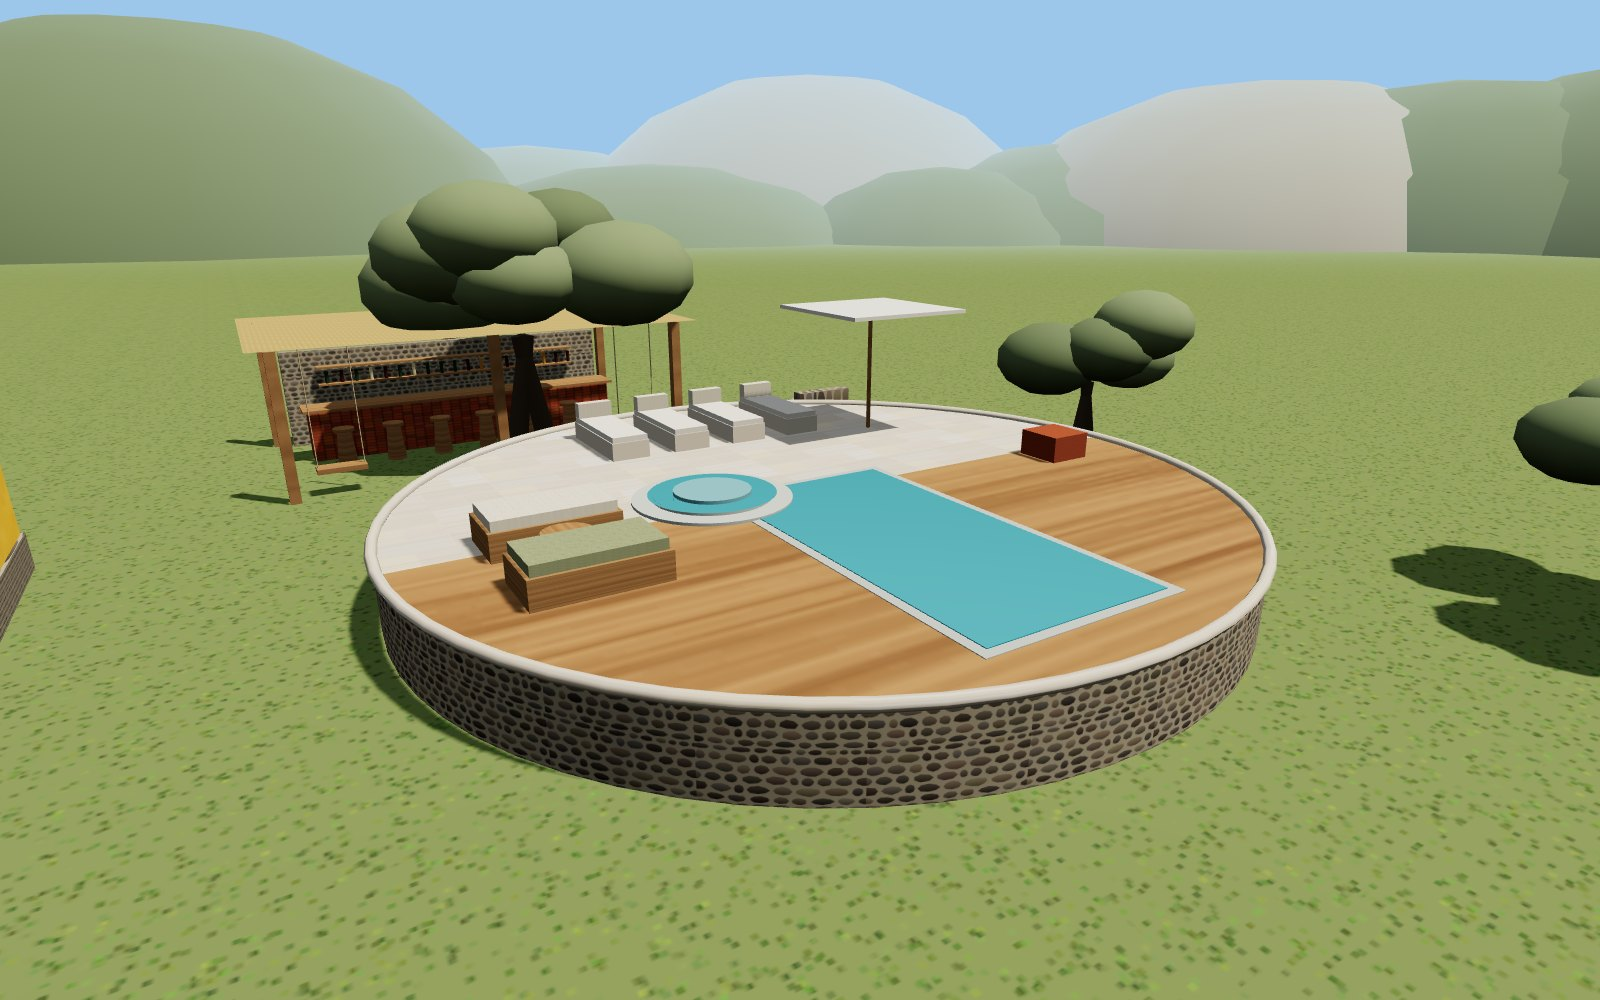
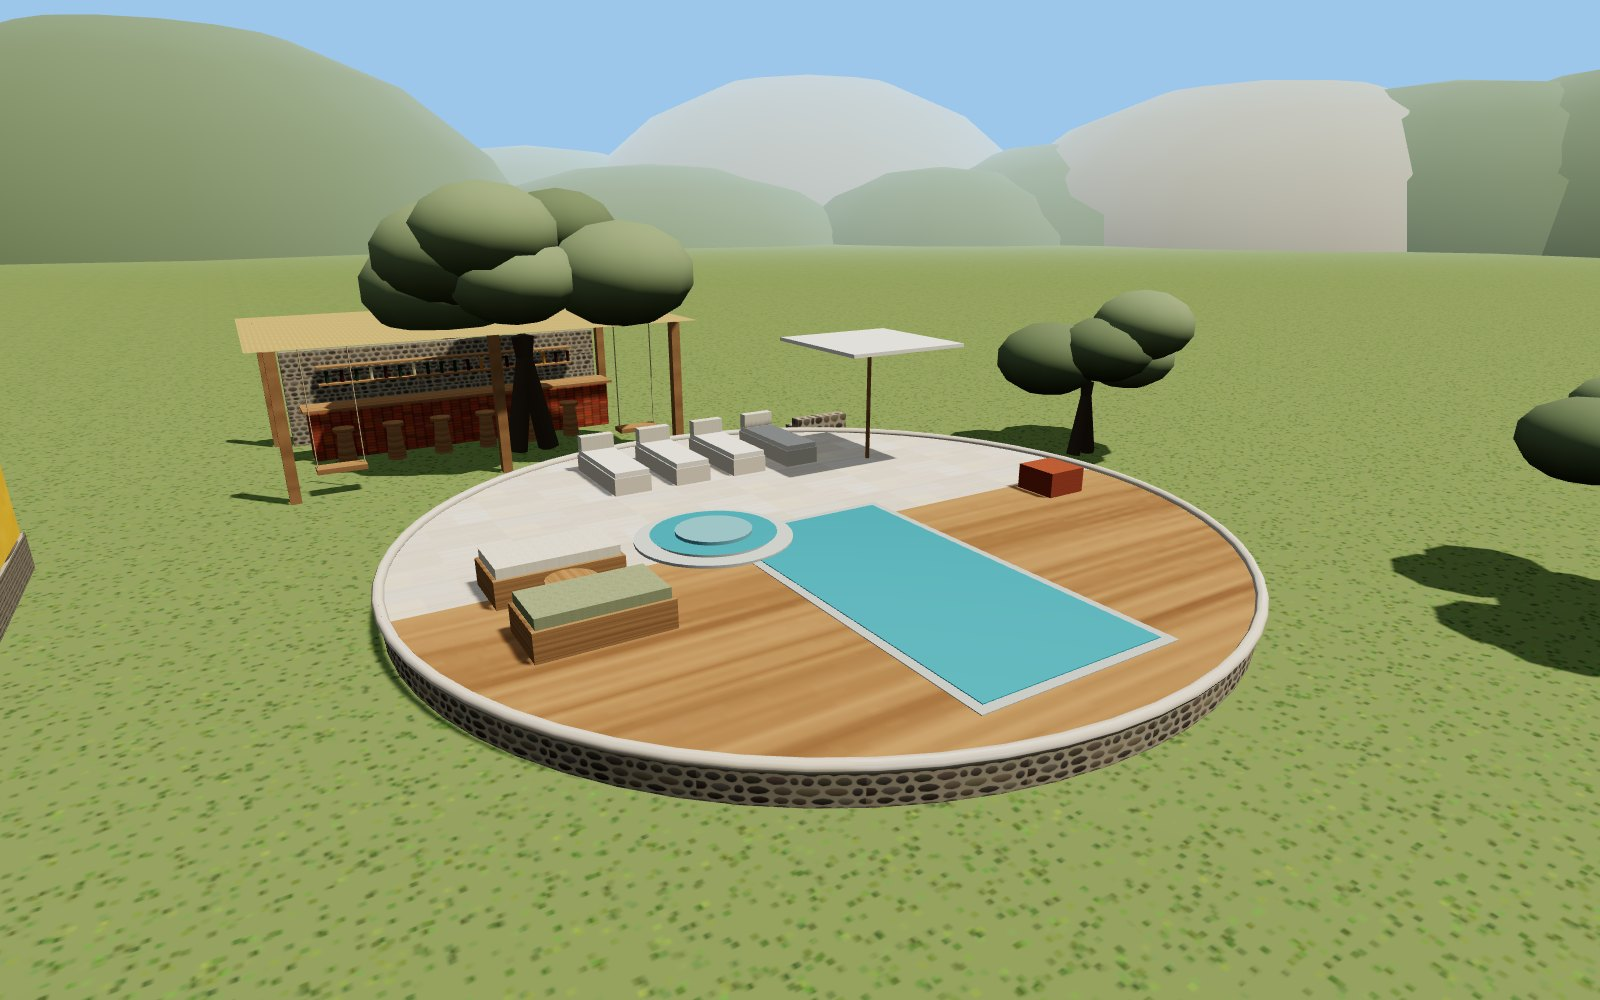
Piscina tonda più bassa (45 cm fuori terra) + foto originale Damonte pag. 4
Claude-Session: https://claude.ai/code/session_01QZXxqty357DcebAAL5Vpaf

Changed region(s): [[0.2188, 0.279, 0.8125, 0.775]]

diff --git a/render-3d/modifiche-damonte-e-nostra/sorgente/esterno-dm4.js b/render-3d/modifiche-damonte-e-nostra/sorgente/esterno-dm4.js
@@ -440,7 +440,7 @@ for (const [x, z] of [[-18, 42], [-4, 50], [15, 50], [30, 45], [42, 40], [6, 38]
 
 // ROUND POOL like Damonte p.4: a raised circle (above ground, clad in stone), timber deck, rectangular basin towards the view
 // with a small round plunge pool and steps at its corner, pale stone half-moon, loungers in a row, square umbrella, lounge corner, big olive
-function roundPool(cx, cz, y0, dir) { const R = 6.5, H = 1.1, top = y0 + H;
+function roundPool(cx, cz, y0, dir) { const R = 6.5, H = 0.45, top = y0 + H;
   const wall = new THREE.Mesh(new THREE.CylinderGeometry(R, R, H, 64, 1, true), stoneW(40, H)); wall.position.set(cx, y0 + H / 2, cz); wall.castShadow = true; scene.add(wall);
   const deck = new THREE.Mesh(new THREE.CircleGeometry(R, 64, dir > 0 ? Math.PI : 0, Math.PI), oakM); deck.rotation.x = -Math.PI / 2; deck.position.set(cx, top, cz); deck.receiveShadow = true; scene.add(deck);
   const half = new THREE.Mesh(new THREE.CircleGeometry(R, 64, dir > 0 ? 0 : Math.PI, Math.PI), travM); half.rotation.x = -Math.PI / 2; half.position.set(cx, top, cz); half.receiveShadow = true; scene.add(half);
@@ -458,7 +458,7 @@ function roundPool(cx, cz, y0, dir) { const R = 6.5, H = 1.1, top = y0 + H;
   cyl(cx - 4.3, cz + dir * 0.8, 0.35, top, top + 0.4, oakM, 20);
   box(cx + 4.4, cx + 5.2, top, top + 0.45, cz + dir * 0.5 - 0.4, cz + dir * 0.5 + 0.4, rustM);
   for (let i = 0; i < 6; i++) { const s = cyl(cx + dir * 0 + (i - 2.5) * 2.0 * 0, cz, 0.0, 0, 0, oakM); s.visible = false; }
-  const steps = (sx) => { for (let i = 0; i < 5; i++) box(sx - 0.7, sx + 0.7, y0, y0 + (i + 1) * 0.22, cz - dir * (R + 1.4 - i * 0.3) - 0.15, cz - dir * (R + 1.4 - i * 0.3) + 0.15, stoneW(1.4, 0.22)); }; steps(cx + 4.5);
+  const steps = (sx) => { for (let i = 0; i < 2; i++) box(sx - 0.7, sx + 0.7, y0, y0 + (i + 1) * 0.22, cz - dir * (R + 0.6 - i * 0.3) - 0.15, cz - dir * (R + 0.6 - i * 0.3) + 0.15, stoneW(1.4, 0.22)); }; steps(cx + 4.5);
   olive(cx - 2, y0, cz - dir * (R + 2.5), 1.9); }
 roundPool(29.5, 6.0, 0, 1);
 // ---- POOL BAR: timber pergola with reed roof, terracotta-tile bar, carved wooden stools, swing seats (p.10-11)

diff --git a/render-3d/modifiche-damonte-e-nostra/sorgente/esterno5.js b/render-3d/modifiche-damonte-e-nostra/sorgente/esterno5.js
@@ -397,7 +397,7 @@ function bellTent(x, y, z, r = 2.6) { box(x - r - 0.6, x + r + 0.6, y, y + 0.35,
 
 // ROUND POOL like Damonte p.4: a raised circle (above ground, clad in stone), timber deck, rectangular basin towards the view
 // with a small round plunge pool and steps at its corner, pale stone half-moon, loungers in a row, square umbrella, lounge corner, big olive
-function roundPool(cx, cz, y0, dir) { const R = 6.5, H = 1.1, top = y0 + H;
+function roundPool(cx, cz, y0, dir) { const R = 6.5, H = 0.45, top = y0 + H;
   const wall = new THREE.Mesh(new THREE.CylinderGeometry(R, R, H, 64, 1, true), stoneW(40, H)); wall.position.set(cx, y0 + H / 2, cz); wall.castShadow = true; scene.add(wall);
   const deck = new THREE.Mesh(new THREE.CircleGeometry(R, 64, dir > 0 ? Math.PI : 0, Math.PI), oakM); deck.rotation.x = -Math.PI / 2; deck.position.set(cx, top, cz); deck.receiveShadow = true; scene.add(deck);
   const half = new THREE.Mesh(new THREE.CircleGeometry(R, 64, dir > 0 ? 0 : Math.PI, Math.PI), travM); half.rotation.x = -Math.PI / 2; half.position.set(cx, top, cz); half.receiveShadow = true; scene.add(half);
@@ -415,7 +415,7 @@ function roundPool(cx, cz, y0, dir) { const R = 6.5, H = 1.1, top = y0 + H;
   cyl(cx - 4.3, cz + dir * 0.8, 0.35, top, top + 0.4, oakM, 20);
   box(cx + 4.4, cx + 5.2, top, top + 0.45, cz + dir * 0.5 - 0.4, cz + dir * 0.5 + 0.4, rustM);
   for (let i = 0; i < 6; i++) { const s = cyl(cx + dir * 0 + (i - 2.5) * 2.0 * 0, cz, 0.0, 0, 0, oakM); s.visible = false; }
-  const steps = (sx) => { for (let i = 0; i < 5; i++) box(sx - 0.7, sx + 0.7, y0, y0 + (i + 1) * 0.22, cz - dir * (R + 1.4 - i * 0.3) - 0.15, cz - dir * (R + 1.4 - i * 0.3) + 0.15, stoneW(1.4, 0.22)); }; steps(cx + 4.5);
+  const steps = (sx) => { for (let i = 0; i < 2; i++) box(sx - 0.7, sx + 0.7, y0, y0 + (i + 1) * 0.22, cz - dir * (R + 0.6 - i * 0.3) - 0.15, cz - dir * (R + 0.6 - i * 0.3) + 0.15, stoneW(1.4, 0.22)); }; steps(cx + 4.5);
   olive(cx - 2, y0, cz - dir * (R + 2.5), 1.9); }
 
 // ================= LAYOUT AS EXPLAINED BY THE OWNERS (driving up along +x: house on the LEFT, pool/tipi/fire/bike polo on the RIGHT)
